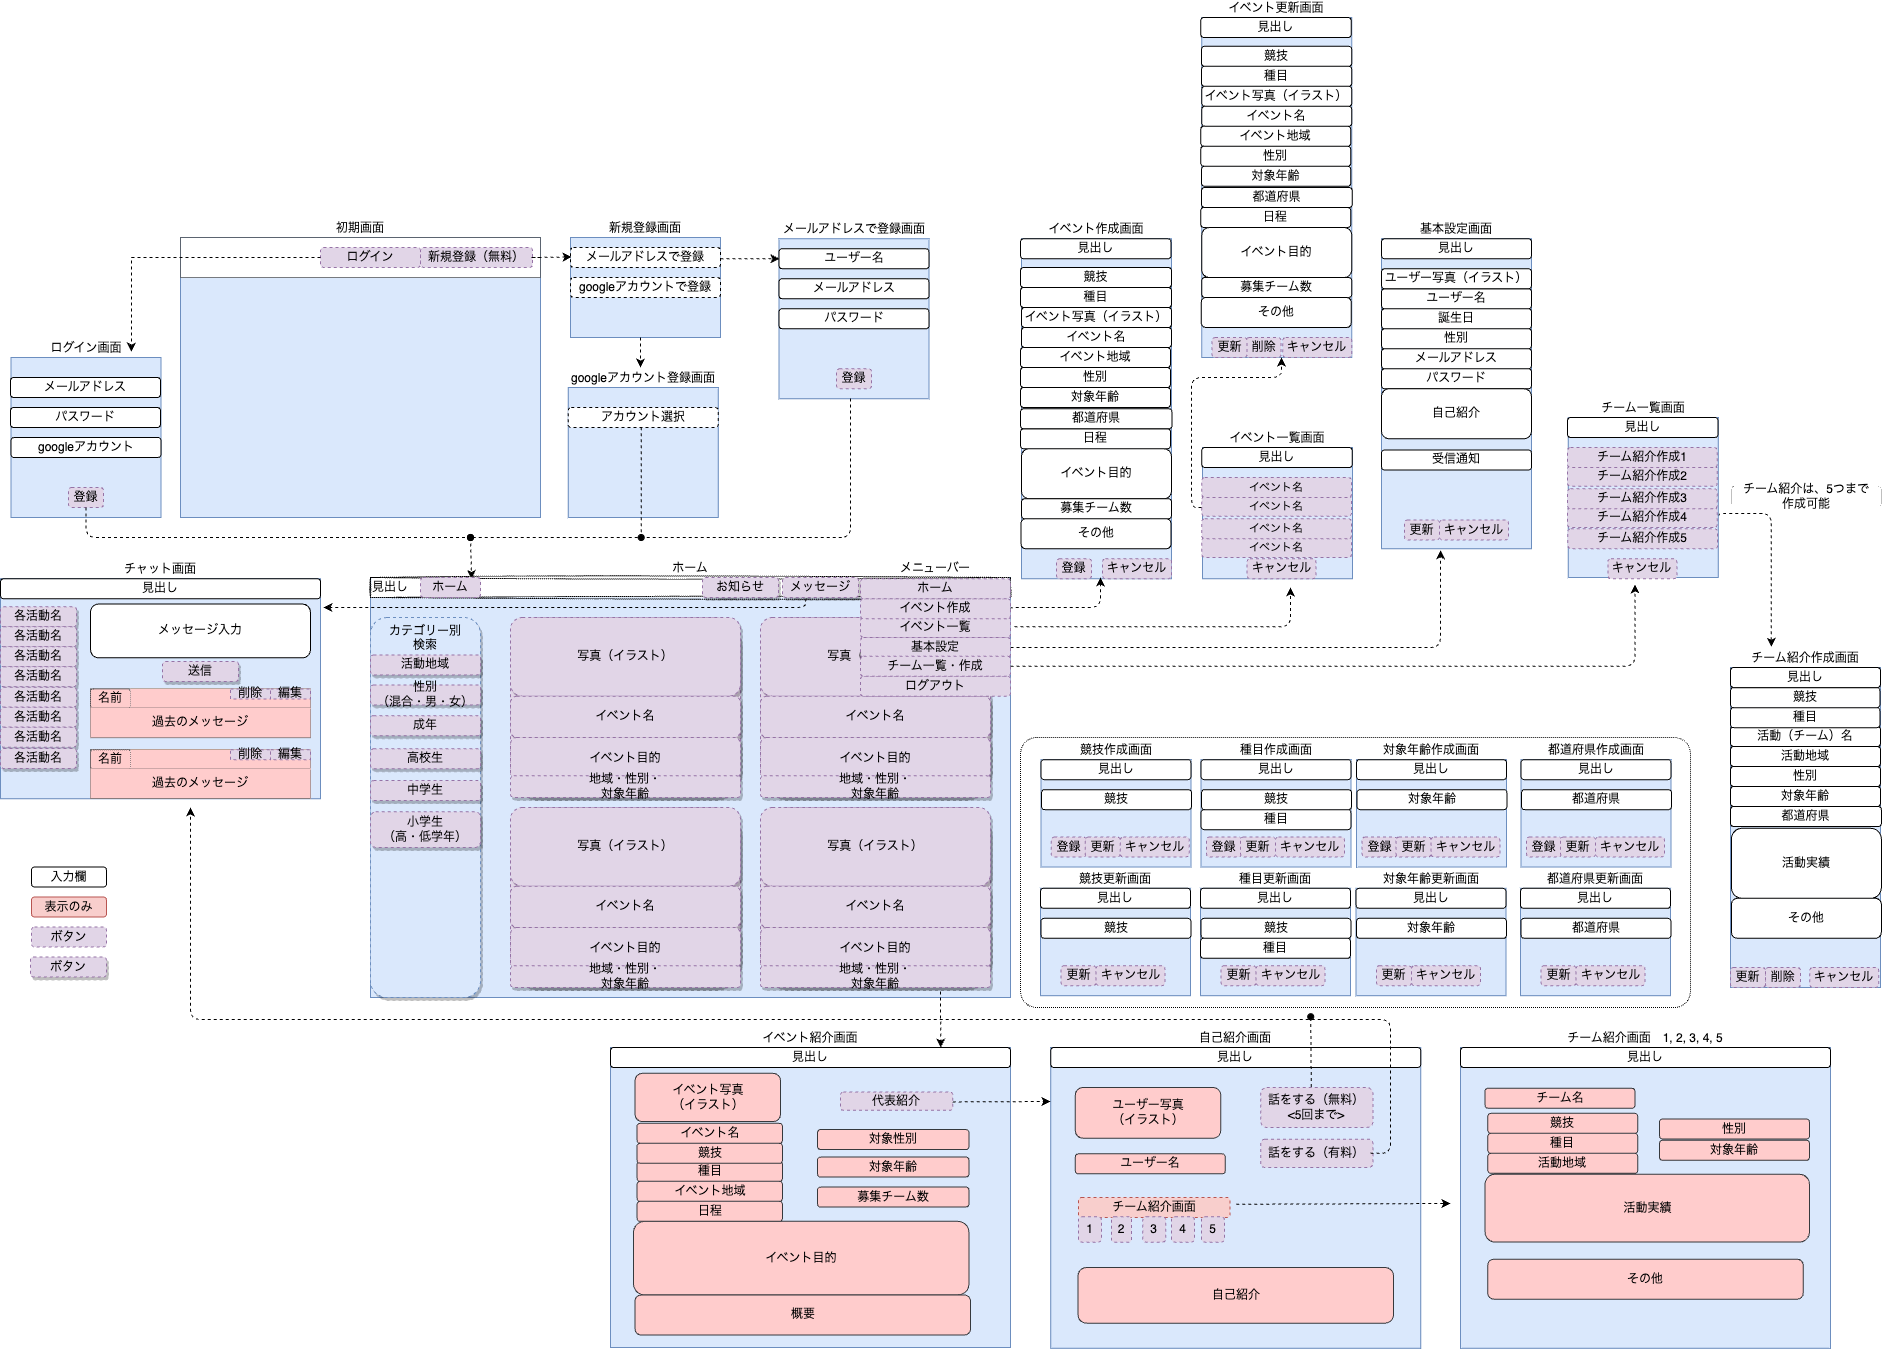
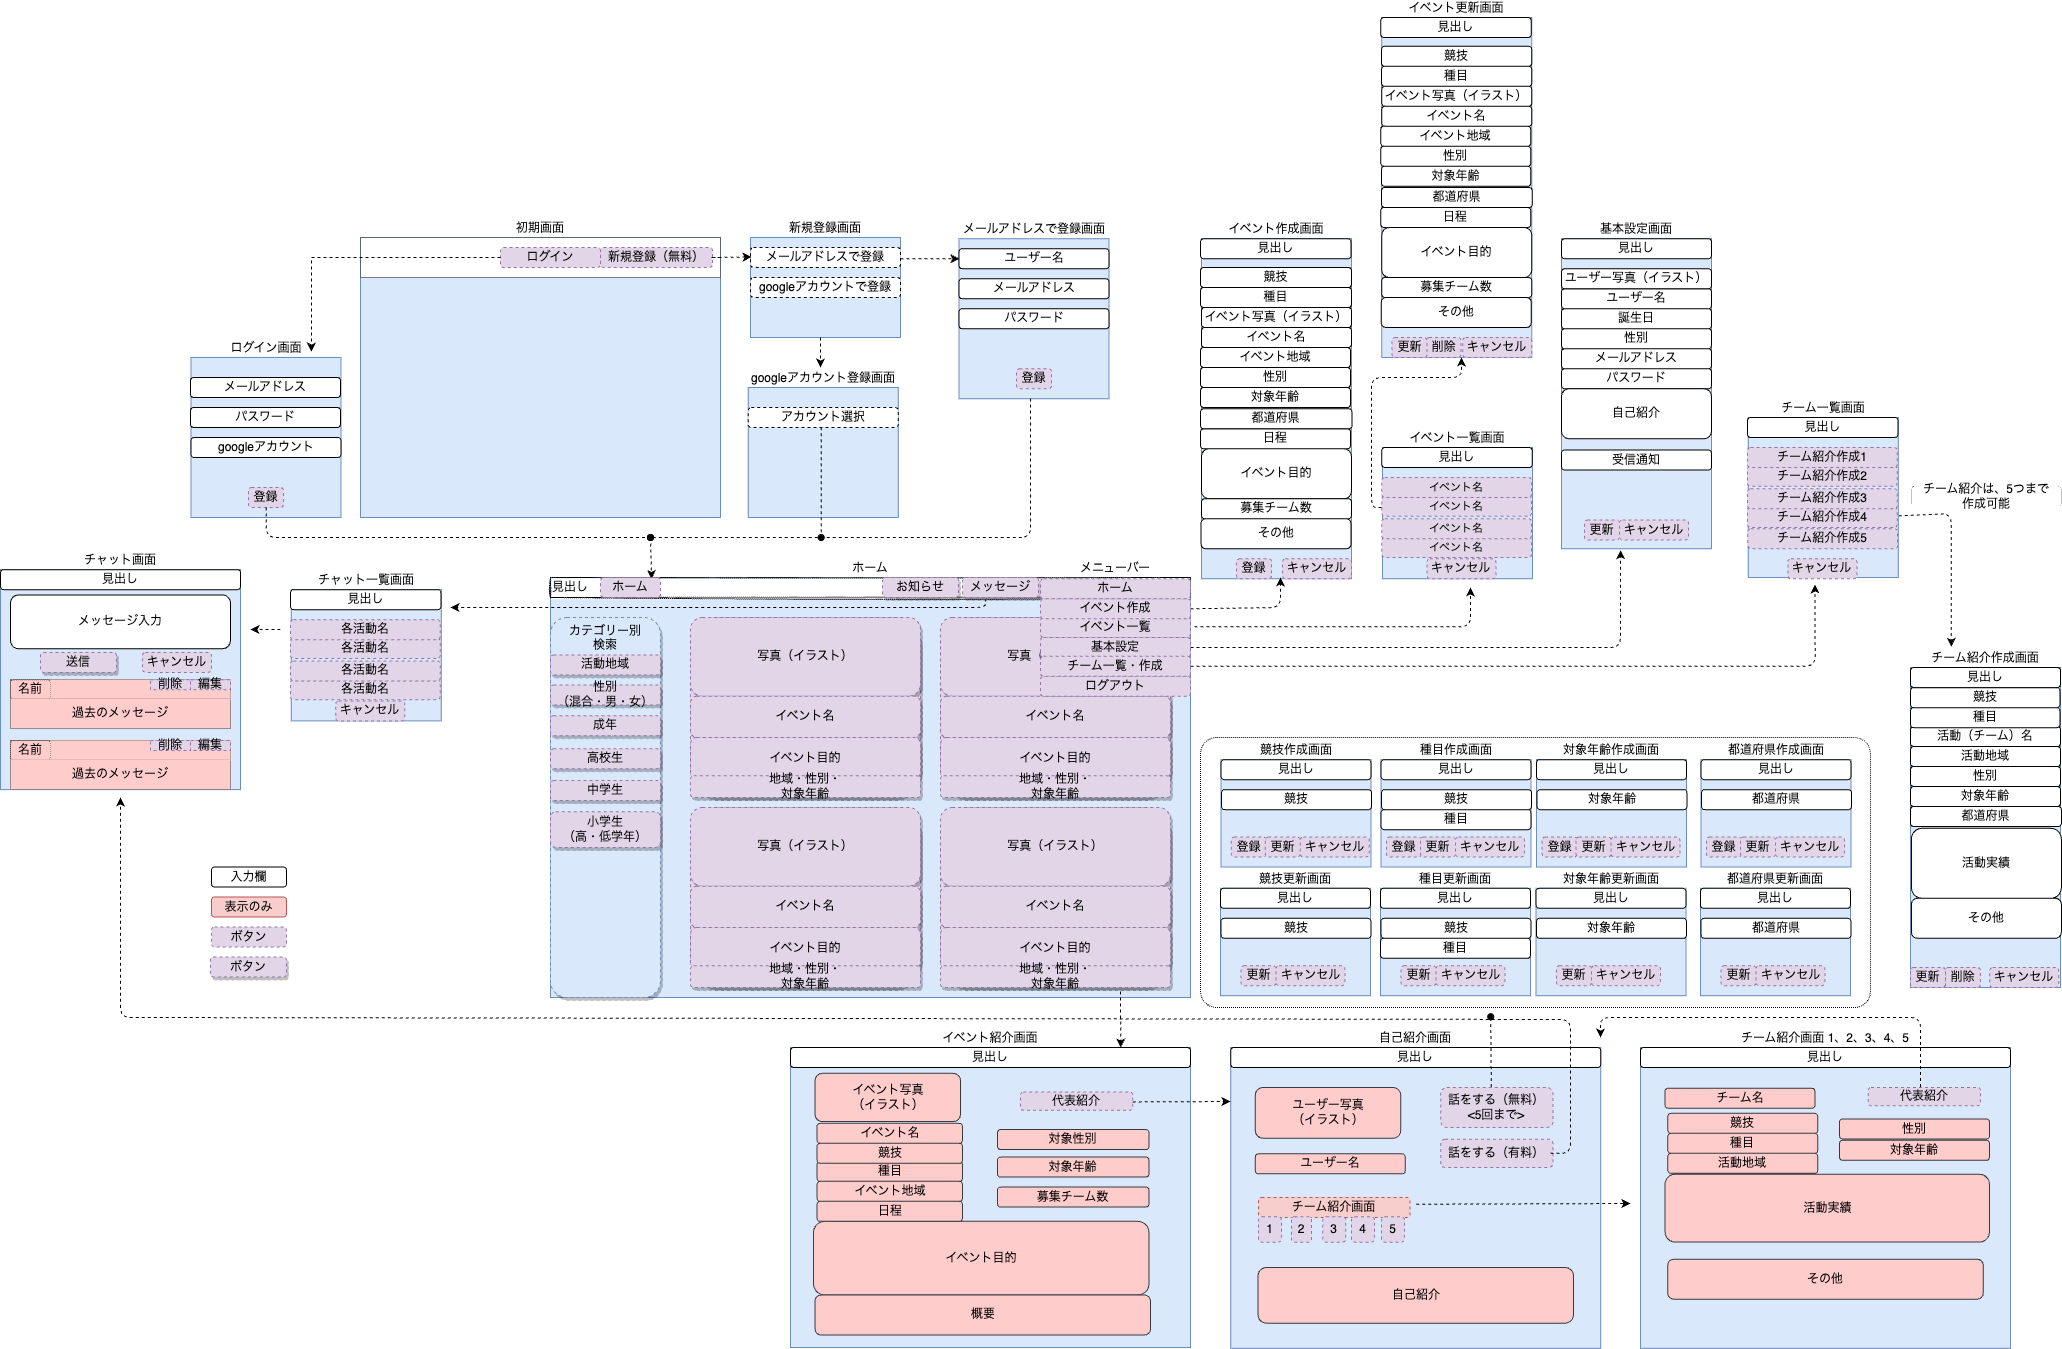
自己紹介画面作成（チャット関係）

diff --git a/frontend/src/views/ChatRoom/ChatRoomPage.vue b/frontend/src/views/ChatRoom/ChatRoomPage.vue
@@ -1,7 +1,10 @@
 <template>
   <div class="flex flex-col items-center justify-center mt-12">
     <div class="md:w-2/5 rounded-md shadow-gray-200 bg-sky-100">
-      <h2 class="text-center pt-10 font-bold text-3xl text-blue-600 mt-16 md:mt-1">チャットルーム</h2>
+      <h2 class="text-center pt-16 font-bold text-3xl text-blue-600 mt-16 md:mt-1">チャットルーム</h2>
+      <h3 class="text-center text-xl text-blue-600 md:mt-1">{{ otherUserName }}
+        <span class="text-base text-black">さんとチャット</span>
+      </h3>
       <button class="cancel_button mx-5 float-right" @click="chatRoomCancel">戻る</button>
       <div class="my-14">
         <form class="flex flex-col items-center justify-center">
@@ -34,33 +37,45 @@ export default {
     return {
       messages: [],
       message: '',
+      otherUserName: '',
       errors: []
     }
   },
   methods: {
+    async fetchChatRoomData() {
+      try {
+        this.errors = []
+        const apiClient = getApiClient()
+        const res = await apiClient.get(`/chat_rooms/${this.$route.params.id}`)
+        this.chatRoom = res.data.chat_room
+        this.otherUserName = res.data.other_user.name
+      } catch {
+        this.errors.push('チャットルームデータを取得できませんでした。')
+      }
+    },
     async getChatMessage() {
       try {
-        const apiClient = getApiClient()
         this.errors = []
+        const apiClient = getApiClient()
         const res = await apiClient.get(`/chat_rooms/${this.$route.params.id}/chat_messages`)
         this.messages = res.data
       } catch {
-        this.errors = 'チャットルームを表示できませんでした。'
+        this.errors.push('チャットルームを表示できませんでした。')
       }
     },
     async chatMessage() {
       try {
-        const apiClient = getApiClient()
         this.errors = []
+        const apiClient = getApiClient()
         await apiClient.post(`/chat_rooms/${this.$route.params.id}/chat_messages`, {
           chat_message: { 
             message: this.message
-          },
+          }
         })
         this.message = ''
       } catch (errors) {
         if (errors.response.data.errors) {
-          this.errors = errors.response.data.errors;
+          this.errors.push(errors.response.data.errors)
         }
       }
     },
@@ -69,6 +84,7 @@ export default {
     }
   },
   mounted() {
+    this.fetchChatRoomData()
     const consumer = createConsumer(`ws://localhost:3001/cable?uid=${this.$store.getters['uid']}`)
     this.messageChannel = consumer.subscriptions.create({ channel: "RoomChannel", room_id: this.$route.params.id }, {
       connected: () => {

diff --git a/frontend/src/views/BasicSetting/UserProfilePage.vue b/frontend/src/views/BasicSetting/UserProfilePage.vue
@@ -1,11 +1,12 @@
 <template>
   <div class="mt-36 md:mt-14 max-w-2xl mx-auto p-6 bg-white shadow-lg rounded-lg">
     <div class="error text-sm text-red-400">{{ error }}</div>
-    <h1 class="text-2xl font-light mb-4">
-      <span class="font-bold mr-3 text-blue-600">名前:</span>
-      {{ userProfile.name }}
-    </h1>
     <img :src="userProfile.image_url" alt="User Image" class="w-full h-auto mb-4">
+    <button class="mt-4 px-4 py-2 bg-blue-500 text-white rounded hover:bg-blue-700 transition duration-300" @click="goToChatRoom(userProfile.id)">チャットを開始</button>
+    <p class="mb-2">
+      <span class="font-semibold text-blue-600">名前:</span>
+      {{ userProfile.name }}
+    </p>
     <p class="mb-2">
       <span class="font-semibold text-blue-600">性別:</span>
       {{ userProfile.sex }}
@@ -35,7 +36,19 @@ export default {
         const res = await apiClient.get(`/users_profile/${this.$route.params.userId}`)
         this.userProfile = res.data.data
       } catch {
-        this.errors.push('プロフィールを表示できませんでした。')
+        this.error = '自己紹介を表示できませんでした。'
+      }
+    },
+    async goToChatRoom(otherUserId) {
+      try {
+        this.error = null
+        const apiClient = getApiClient()
+        const res = await apiClient.post('/chat_rooms', {
+          other_user_id: otherUserId
+        })
+        this.$router.push({ name: 'ChatRoomPage', params: { id: res.data.data.id } })
+      } catch {
+        this.error = 'チャットルーム画面を表示できませんでした。'
       }
     }
   },

diff --git a/frontend/src/views/HomePage.vue b/frontend/src/views/HomePage.vue
@@ -148,8 +148,11 @@ export default {
         const apiClient = getApiClient()
         await apiClient.get(`/recruitments/${recruitmentId}`)
         this.$router.push({ name: 'EventPage', params: { id: recruitmentId } })
-      } catch {
-        this.errors.push('イベントを表示できませんでした。')
+      } catch (error) {
+        const message = error.response && error.response.data && error.response.data.message
+          ? error.response.data.message
+          : 'イベントを表示できませんでした。';
+        this.errors.push(message);
       }
     }
   },

diff --git a/backend/app/models/chat_room.rb b/backend/app/models/chat_room.rb
@@ -5,7 +5,33 @@ class ChatRoom < ApplicationRecord
   has_many :users,  through: :chat_room_users
 
   validates :paid_or_free, inclusion: [true, false]
+
   def other_user(user_id:)
     chat_room_users.where.not(user_id: user_id).first&.user
+  end
+
+  def self.find_or_create_by_users(user1_id, user2_id)
+    chat_room = ChatRoom.joins(:chat_room_users)
+                        .where(chat_room_users: { user_id: [user1_id, user2_id] })
+                        .group('chat_rooms.id')
+                        .having('COUNT(chat_room_users.id) = 2')
+                        .first
+
+    return chat_room if chat_room.present?
+
+    chat_room = ChatRoom.create!
+    ChatRoomUser.create!(chat_room: chat_room, user_id: user1_id)
+    ChatRoomUser.create!(chat_room: chat_room, user_id: user2_id)
+    chat_room
+  end
+  
+  def make_paid
+    update(paid_or_free: true)
+  end
+
+  def notify_other_users(chat_message)
+    users.where.not(id: chat_message.user.id).distinct.each do |user|
+      UserMailer.with(user_name: chat_message.user.name, user_message: chat_message.message, recipient_email: user.email, recipient_name: user.name).new_message_notification.deliver_later
+    end
   end
 end

diff --git a/backend/app/controllers/chat_rooms_controller.rb b/backend/app/controllers/chat_rooms_controller.rb
@@ -1,15 +1,9 @@
 class ChatRoomsController < ApplicationController
-  before_action :authenticate, except: [:show]
-  
+  before_action :authenticate
+
   def create
-    ChatRoom.transaction do
-      @chat_room = current_user.chat_rooms.new(create_params)
-      @chat_room.save!
-      chat_room_user = ChatRoomUser.new(user: current_user, chat_room: @chat_room)
-      chat_room_user.save!
-    end
-  rescue ActiveRecord::RecordInvalid => e
-    render json: { errors: e.record.errors.full_messages }, status: 400
+    other_user_id = params[:other_user_id]
+    @chat_room = ChatRoom.find_or_create_by_users(current_user.id, other_user_id)
   end
 
   def update
@@ -20,6 +14,11 @@ class ChatRoomsController < ApplicationController
 
   def index
     @chat_rooms_with_other_user = current_user.chat_rooms_with_other_users
+  end
+
+  def show
+    @chat_room = ChatRoom.find(params[:id])
+    @other_user = @chat_room.other_user(user_id: current_user.id)
   end
 
   def destroy
@@ -33,6 +32,6 @@ class ChatRoomsController < ApplicationController
   def create_params
     params
     .require(:chat_room)
-    .permit(:paid_or_free )
+    .permit(:paid_or_free, :other_user_id )
   end
 end

diff --git a/backend/app/controllers/chat_rooms/chat_messages_controller.rb b/backend/app/controllers/chat_rooms/chat_messages_controller.rb
@@ -7,14 +7,15 @@ module ChatRooms
       @chat_message = @chat_room.chat_messages.new(message_params.merge(user: current_user))
     
       if @chat_message.save
+        chat_room_user = @chat_room.chat_room_users.find_by(user: current_user)
+        chat_room_user.increment_chat_count_and_check_payment if chat_room_user
+        
         RoomChannel.broadcast_to(@chat_room, {
           message: @chat_message.message,
           name: current_user.name,
           created_at: @chat_message.created_at.strftime("%Y-%m-%d %H:%M:%S")
         })
-        (@chat_room.users.where.not(id: current_user.id).distinct).each do |user|
-          UserMailer.with(user_name: @chat_message.user.name, user_message: @chat_message.message, recipient_email: user.email, recipient_name: user.name ).new_message_notification.deliver_later
-        end
+        @chat_room.notify_other_users(@chat_message)
         head :ok
       else
         render json: { errors: @chat_message.errors.full_messages }, status: :unprocessable_entity

diff --git a/backend/db/schema.rb b/backend/db/schema.rb
@@ -10,7 +10,7 @@
 #
 # It's strongly recommended that you check this file into your version control system.
 
-ActiveRecord::Schema[7.0].define(version: 2024_01_04_035005) do
+ActiveRecord::Schema[7.0].define(version: 2024_01_16_010038) do
   create_table "active_storage_attachments", charset: "utf8mb4", collation: "utf8mb4_0900_ai_ci", force: :cascade do |t|
     t.string "name", null: false
     t.string "record_type", null: false
@@ -54,6 +54,7 @@ ActiveRecord::Schema[7.0].define(version: 2024_01_04_035005) do
     t.bigint "chat_room_id"
     t.datetime "created_at", null: false
     t.datetime "updated_at", null: false
+    t.bigint "chat_count", default: 0
     t.index ["chat_room_id"], name: "index_chat_room_users_on_chat_room_id"
     t.index ["user_id"], name: "index_chat_room_users_on_user_id"
   end

diff --git a/backend/app/models/chat_room_user.rb b/backend/app/models/chat_room_user.rb
@@ -1,4 +1,16 @@
 class ChatRoomUser < ApplicationRecord
   belongs_to :user
   belongs_to :chat_room
+
+  def increment_chat_count
+    self.chat_count += 1
+    self.save!
+  end
+
+  def increment_chat_count_and_check_payment
+    increment!(:chat_count)
+    if chat_count > 5
+      chat_room.make_paid
+    end
+  end
 end

diff --git a/backend/app/models/user.rb b/backend/app/models/user.rb
@@ -32,7 +32,8 @@ class User < ActiveRecord::Base
       other_user = room.other_user(user_id: id)
       {
         chat_room: room,
-        other_user_name: other_user&.name
+        other_user_name: other_user&.name,
+        other_user_id: other_user&.id
       }
     end
   end

diff --git a/backend/db/migrate/20240116010038_add_chat_count_to_chat_room_users.rb b/backend/db/migrate/20240116010038_add_chat_count_to_chat_room_users.rb
@@ -1,0 +1,5 @@
+class AddChatCountToChatRoomUsers < ActiveRecord::Migration[7.0]
+  def change
+    add_column :chat_room_users, :chat_count, :bigint, default: 0
+  end
+end
